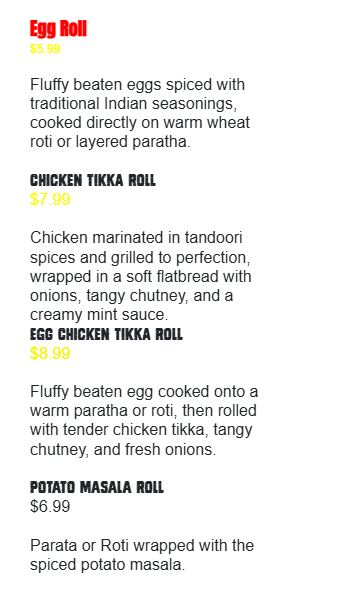
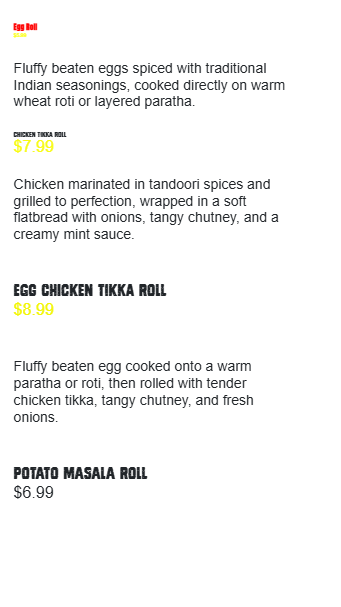
scaling

Changed region(s): [[0.0293, 0.0297, 0.8504, 0.86], [0.088, 0.8896, 0.7625, 0.9489]]

diff --git a/AnimationProject/wwwroot/js/animations.js b/AnimationProject/wwwroot/js/animations.js
@@ -11503,7 +11503,7 @@ function __applyBasicDimsConstantCaps(box, newX, newY, newW, newH) {
 
 
 canvas.addEventListener("mousemove", e => {
-   // const { x: gmx, y: gmy } = getCanvasMousePosition(e);
+    // const { x: gmx, y: gmy } = getCanvasMousePosition(e);
     const { x: mx, y: my } = getCanvasMousePosition(e);
 
     if (isDraggingMulti) { updateGroupDrag(mx, my); return; }
@@ -11522,7 +11522,6 @@ canvas.addEventListener("mousemove", e => {
         return;                    // stop here while band-selecting
     }
 
-
     // ──────────────────────────────────────────────────────────
     // 🔧 ROTATION HELPERS (ADD)
     function __deg2rad(a) { return (a || 0) * Math.PI / 180; }
@@ -11533,6 +11532,26 @@ canvas.addEventListener("mousemove", e => {
         return { dxL: dxx * cc + dyy * ss, dyL: -dxx * ss + dyy * cc };
     }
 
+    // ──────────────────────────────────────────────────────────
+    // NEW: make sure we have a baked baseline for TEXT scaling
+    function __ensureBakedOrigText(box) {
+        if (!box || !box._orig || typeof box._orig.text !== 'string') return;
+        if (box._orig.__baked) return;
+
+        const t = box._orig.text;
+        const hasSpanFS = /<span[^>]*style\s*=\s*"[^"]*font-size\s*:/i.test(t);
+        // If font-size is only on <p> or not present on spans, bake per-line spans
+        if (!hasSpanFS) {
+            try {
+                box._orig.text = bakeInlineFontOnLinesHTML(box._orig.text, textEditorNew);
+            } catch { /* ignore but keep going */ }
+        }
+        // freeze the baseline we will always scale from
+        box._orig.textBaked = box._orig.text;
+        box._orig.__baked = true;
+    }
+
+    // ──────────────────────────────────────────────────────────
     // Generic anchored resize (images/svg): opposite edge/corner fixed (ADD)
     function __applyResizeGenericAnchRot(box, dir, dxL, dyL) {
         const o = box._orig || { x: box.x, y: box.y, width: box.width, height: box.height };
@@ -11638,7 +11657,6 @@ canvas.addEventListener("mousemove", e => {
         else if (!useX && useY) box.__capsOrientation = 'vertical';
     }
 
-
     // TEXT corner + side anchored with rotation (ADD)
     function __applyCornerTextAnchRot(box, dir, dxL, dyL) {
         const o = box._orig; if (!o) return;
@@ -11668,8 +11686,11 @@ canvas.addEventListener("mousemove", e => {
         box.y = cy - newH / 2;
         box.width = newW;
         box.height = newH;
+
         if (typeof box._orig.text === 'string') {
-            box.text = scaleTextHTML(box._orig.text, sU);
+            // CHANGED: always scale from baked baseline
+            const baseHTML = box._orig.textBaked || box._orig.text;
+            box.text = scaleTextHTML(baseHTML, sU);
         }
     }
     function __applySideTextAnchRot(box, side, deltaL) {
@@ -11767,6 +11788,9 @@ canvas.addEventListener("mousemove", e => {
     if (isResizingNew && activeBox && activeBox.type !== 'image' &&
         (resizeDirection === 'l' || resizeDirection === 'r')) {
 
+        // NEW: ensure baked baseline exists before any text scaling/width ops
+        __ensureBakedOrigText(activeBox);
+
         if ((activeBox.rotation || 0) % 360 !== 0) {
             const { dxL } = __toLocalDelta(mx, my, startMXCanvas, startMYCanvas, activeBox.rotation || 0);
             __applySideTextAnchRot(activeBox, resizeDirection, dxL);
@@ -11807,14 +11831,28 @@ canvas.addEventListener("mousemove", e => {
         return;
     }
 
+    // OLD guard kept; now complemented by __ensureBakedOrigText above
     if (activeBox && activeBox._orig && typeof activeBox._orig.text === 'string') {
         if (!/font-size\s*:/i.test(activeBox._orig.text)) {
             activeBox._orig.text = bakeInlineFontOnLinesHTML(activeBox._orig.text, textEditorNew);
         }
     }
+    // NEW: also bake if font-size appears only on <p> (nested color spans won't scale)
+    if (activeBox && activeBox._orig && typeof activeBox._orig.text === 'string' && !activeBox._orig.__baked) {
+        const t0 = activeBox._orig.text;
+        const hasSpanFS0 = /<span[^>]*style\s*=\s*"[^"]*font-size\s*:/i.test(t0);
+        if (!hasSpanFS0) {
+            try { activeBox._orig.text = bakeInlineFontOnLinesHTML(activeBox._orig.text, textEditorNew); } catch { }
+        }
+        activeBox._orig.textBaked = activeBox._orig.text;
+        activeBox._orig.__baked = true;
+    }
 
     // TEXT corner — rotation-aware first, then your original
     if (isCornerFontScale && activeBox && resizeDirectionNorm && CORNER_HANDLES.has(resizeDirectionNorm)) {
+        // NEW: ensure baked baseline exists
+        __ensureBakedOrigText(activeBox);
+
         if ((activeBox.rotation || 0) % 360 !== 0) {
             const { dxL, dyL } = __toLocalDelta(mx, my, startMXCanvas, startMYCanvas, activeBox.rotation || 0);
             __applyCornerTextAnchRot(activeBox, resizeDirectionNorm, dxL, dyL);
@@ -11845,7 +11883,11 @@ canvas.addEventListener("mousemove", e => {
             case 'br': activeBox.x = activeBox._orig.x; activeBox.y = activeBox._orig.y; break;
         }
         activeBox.width = newW; activeBox.height = newH;
-        activeBox.text = scaleTextHTML(activeBox._orig.text, sU);
+
+        // CHANGED: always scale from baked baseline
+        const baseHTML = activeBox._orig.textBaked || activeBox._orig.text;
+        activeBox.text = scaleTextHTML(baseHTML, sU);
+
         drawText();
         return;
     }
@@ -12142,7 +12184,7 @@ canvas.addEventListener("mousemove", e => {
                         snappedX = (side === 'l') ? activeBox.x : (activeBox.x + activeBox.width);
                     }
                 }
-                else if (!__isBasicImage(activeBox) && ((activeBox.rotation || 0) % 360 !== 0)) {
+                else if (!__isBasicImage(activeBox) && ((activeBox.rotation || 0) % 360) !== 0) {
                     // 🔧 ADD: rotation-aware LEFT/RIGHT for NORMAL image / normal SVG (non-BASIC, non-line)
                     const { dxL } = __toLocalDelta(mx, my, startMXCanvas, startMYCanvas, activeBox.rotation || 0);
                     __applyResizeGenericAnchRot(activeBox, side, dxL, 0);
@@ -12150,7 +12192,7 @@ canvas.addEventListener("mousemove", e => {
                     drawText();
                     return; // important: skip the generic fallback to avoid walk
                 }
-                 else {
+                else {
                     // non-BASIC (or lines) → your existing clamp
                     const { edgeX } = __clampBasicSideResize(activeBox, side);
                     if (typeof edgeX === 'number') snappedX = edgeX;
@@ -12164,6 +12206,9 @@ canvas.addEventListener("mousemove", e => {
 
         } else {
             // TEXT (kept)
+            // NEW: bake once so side-resize + later corner-resize share the same baseline
+            __ensureBakedOrigText(activeBox);
+
             scaleTextBoxWithHandle(activeBox, (resizeDirectionRaw || resizeDirection), mx, my);
             prevMouseX = mx; prevMouseY = my;
             drawText();
@@ -12191,6 +12236,7 @@ canvas.addEventListener("mousemove", e => {
         // otherwise let normal hover logic run (if any)
     }
 });
+
 
 
 

diff --git a/AnimationProject/wwwroot/js/animationsHorizontal.js b/AnimationProject/wwwroot/js/animationsHorizontal.js
@@ -11653,6 +11653,7 @@ function __applyBasicDimsConstantCaps(box, newX, newY, newW, newH) {
     box.__capsOrientation = 'neutral'; // ignore H/V split; we’re using constant px radius
 }
 canvas.addEventListener("mousemove", e => {
+    // const { x: gmx, y: gmy } = getCanvasMousePosition(e);
     const { x: mx, y: my } = getCanvasMousePosition(e);
 
     if (isDraggingMulti) { updateGroupDrag(mx, my); return; }
@@ -11660,7 +11661,6 @@ canvas.addEventListener("mousemove", e => {
 
     const dx = mx - prevMouseX;
     const dy = my - prevMouseY;
-
 
     // ✨ EARLY-RETURN MARQUEE (only when not acting on a single item)
     if (isMarquee && !isClickSingle) {
@@ -11682,6 +11682,26 @@ canvas.addEventListener("mousemove", e => {
         return { dxL: dxx * cc + dyy * ss, dyL: -dxx * ss + dyy * cc };
     }
 
+    // ──────────────────────────────────────────────────────────
+    // NEW: make sure we have a baked baseline for TEXT scaling
+    function __ensureBakedOrigText(box) {
+        if (!box || !box._orig || typeof box._orig.text !== 'string') return;
+        if (box._orig.__baked) return;
+
+        const t = box._orig.text;
+        const hasSpanFS = /<span[^>]*style\s*=\s*"[^"]*font-size\s*:/i.test(t);
+        // If font-size is only on <p> or not present on spans, bake per-line spans
+        if (!hasSpanFS) {
+            try {
+                box._orig.text = bakeInlineFontOnLinesHTML(box._orig.text, textEditorNew);
+            } catch { /* ignore but keep going */ }
+        }
+        // freeze the baseline we will always scale from
+        box._orig.textBaked = box._orig.text;
+        box._orig.__baked = true;
+    }
+
+    // ──────────────────────────────────────────────────────────
     // Generic anchored resize (images/svg): opposite edge/corner fixed (ADD)
     function __applyResizeGenericAnchRot(box, dir, dxL, dyL) {
         const o = box._orig || { x: box.x, y: box.y, width: box.width, height: box.height };
@@ -11787,7 +11807,6 @@ canvas.addEventListener("mousemove", e => {
         else if (!useX && useY) box.__capsOrientation = 'vertical';
     }
 
-
     // TEXT corner + side anchored with rotation (ADD)
     function __applyCornerTextAnchRot(box, dir, dxL, dyL) {
         const o = box._orig; if (!o) return;
@@ -11817,8 +11836,11 @@ canvas.addEventListener("mousemove", e => {
         box.y = cy - newH / 2;
         box.width = newW;
         box.height = newH;
+
         if (typeof box._orig.text === 'string') {
-            box.text = scaleTextHTML(box._orig.text, sU);
+            // CHANGED: always scale from baked baseline
+            const baseHTML = box._orig.textBaked || box._orig.text;
+            box.text = scaleTextHTML(baseHTML, sU);
         }
     }
     function __applySideTextAnchRot(box, side, deltaL) {
@@ -11916,6 +11938,9 @@ canvas.addEventListener("mousemove", e => {
     if (isResizingNew && activeBox && activeBox.type !== 'image' &&
         (resizeDirection === 'l' || resizeDirection === 'r')) {
 
+        // NEW: ensure baked baseline exists before any text scaling/width ops
+        __ensureBakedOrigText(activeBox);
+
         if ((activeBox.rotation || 0) % 360 !== 0) {
             const { dxL } = __toLocalDelta(mx, my, startMXCanvas, startMYCanvas, activeBox.rotation || 0);
             __applySideTextAnchRot(activeBox, resizeDirection, dxL);
@@ -11956,14 +11981,28 @@ canvas.addEventListener("mousemove", e => {
         return;
     }
 
+    // OLD guard kept; now complemented by __ensureBakedOrigText above
     if (activeBox && activeBox._orig && typeof activeBox._orig.text === 'string') {
         if (!/font-size\s*:/i.test(activeBox._orig.text)) {
             activeBox._orig.text = bakeInlineFontOnLinesHTML(activeBox._orig.text, textEditorNew);
         }
     }
+    // NEW: also bake if font-size appears only on <p> (nested color spans won't scale)
+    if (activeBox && activeBox._orig && typeof activeBox._orig.text === 'string' && !activeBox._orig.__baked) {
+        const t0 = activeBox._orig.text;
+        const hasSpanFS0 = /<span[^>]*style\s*=\s*"[^"]*font-size\s*:/i.test(t0);
+        if (!hasSpanFS0) {
+            try { activeBox._orig.text = bakeInlineFontOnLinesHTML(activeBox._orig.text, textEditorNew); } catch { }
+        }
+        activeBox._orig.textBaked = activeBox._orig.text;
+        activeBox._orig.__baked = true;
+    }
 
     // TEXT corner — rotation-aware first, then your original
     if (isCornerFontScale && activeBox && resizeDirectionNorm && CORNER_HANDLES.has(resizeDirectionNorm)) {
+        // NEW: ensure baked baseline exists
+        __ensureBakedOrigText(activeBox);
+
         if ((activeBox.rotation || 0) % 360 !== 0) {
             const { dxL, dyL } = __toLocalDelta(mx, my, startMXCanvas, startMYCanvas, activeBox.rotation || 0);
             __applyCornerTextAnchRot(activeBox, resizeDirectionNorm, dxL, dyL);
@@ -11994,7 +12033,11 @@ canvas.addEventListener("mousemove", e => {
             case 'br': activeBox.x = activeBox._orig.x; activeBox.y = activeBox._orig.y; break;
         }
         activeBox.width = newW; activeBox.height = newH;
-        activeBox.text = scaleTextHTML(activeBox._orig.text, sU);
+
+        // CHANGED: always scale from baked baseline
+        const baseHTML = activeBox._orig.textBaked || activeBox._orig.text;
+        activeBox.text = scaleTextHTML(baseHTML, sU);
+
         drawText();
         return;
     }
@@ -12291,7 +12334,7 @@ canvas.addEventListener("mousemove", e => {
                         snappedX = (side === 'l') ? activeBox.x : (activeBox.x + activeBox.width);
                     }
                 }
-                else if (!__isBasicImage(activeBox) && ((activeBox.rotation || 0) % 360 !== 0)) {
+                else if (!__isBasicImage(activeBox) && ((activeBox.rotation || 0) % 360) !== 0) {
                     // 🔧 ADD: rotation-aware LEFT/RIGHT for NORMAL image / normal SVG (non-BASIC, non-line)
                     const { dxL } = __toLocalDelta(mx, my, startMXCanvas, startMYCanvas, activeBox.rotation || 0);
                     __applyResizeGenericAnchRot(activeBox, side, dxL, 0);
@@ -12313,6 +12356,9 @@ canvas.addEventListener("mousemove", e => {
 
         } else {
             // TEXT (kept)
+            // NEW: bake once so side-resize + later corner-resize share the same baseline
+            __ensureBakedOrigText(activeBox);
+
             scaleTextBoxWithHandle(activeBox, (resizeDirectionRaw || resizeDirection), mx, my);
             prevMouseX = mx; prevMouseY = my;
             drawText();
@@ -12340,6 +12386,7 @@ canvas.addEventListener("mousemove", e => {
         // otherwise let normal hover logic run (if any)
     }
 });
+
 
 
 
